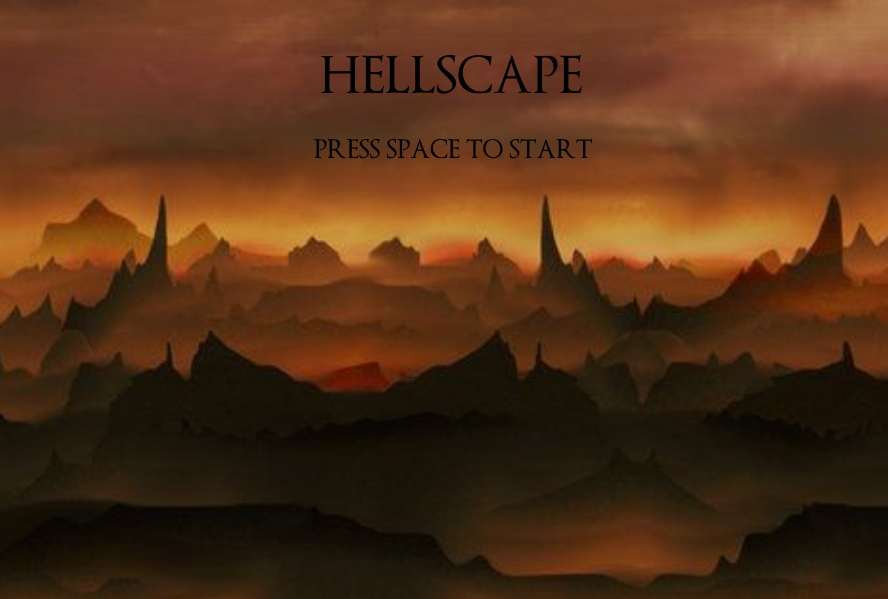
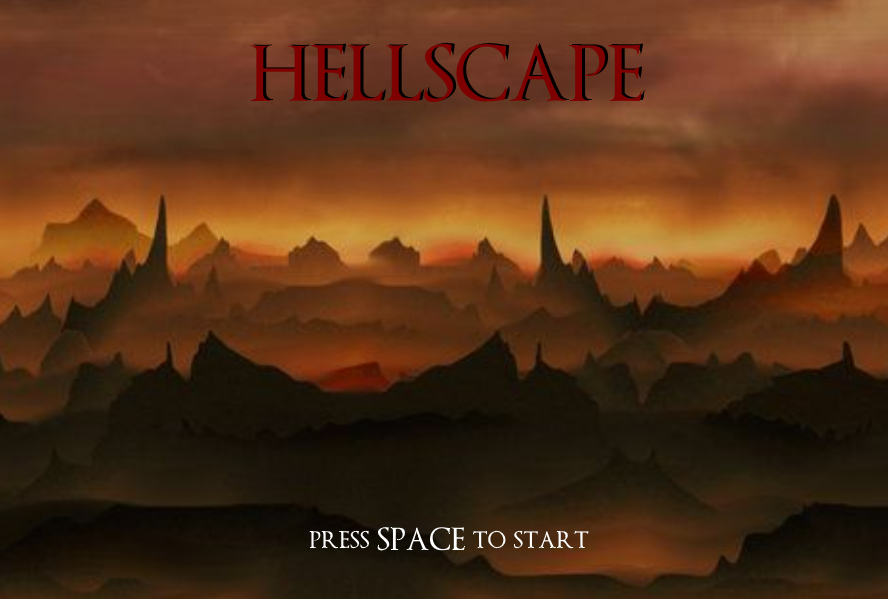
Refined backgrounds and buttons
and some minor changes to lvl 1

Changed region(s): [[0.2736, 0.0601, 0.7297, 0.1803], [0.3345, 0.8715, 0.6689, 0.9316], [0.3345, 0.2104, 0.6689, 0.2705]]

diff --git a/App/Source/Scene3D/Level1.cpp b/App/Source/Scene3D/Level1.cpp
@@ -258,7 +258,7 @@ bool CLevel1::Init(void)
 	// Add the cEnemy3D to the cSolidObjectManager
 	cSolidObjectManager->Add(cEnemy3D_2);
 
-	// Initialise a CStructure3D
+	/*// Initialise a CStructure3D
 	fCheckHeight = cTerrain->GetHeight(2.0f, -2.0f);
 	CStructure3D* cStructure3D = new CStructure3D(glm::vec3(2.0f, fCheckHeight, -2.0f));
 	cStructure3D->SetShader("Shader3D");
@@ -267,7 +267,7 @@ bool CLevel1::Init(void)
 	//cStructure3D->SetScale(glm::vec3(0.5f));
 
 	// Add the cStructure3D to the cSolidObjectManager
-	cSolidObjectManager->Add(cStructure3D);
+	cSolidObjectManager->Add(cStructure3D);*/
 
 	// Load the GUI Entities
 	// Store the cGUI_Scene3D singleton instance here

diff --git a/App/Source/GameStateManagement/MenuState.cpp b/App/Source/GameStateManagement/MenuState.cpp
@@ -87,10 +87,10 @@ bool CMenuState::Init(void)
 	startButtonData.fileName = "Image\\GUI\\PlayButton.png";
 	startButtonData.textureID = il->LoadTextureGetID(startButtonData.fileName.c_str(), false);
 
-	play3DButtonData.fileName = "Image\\GUI\\PlayButton_3D.png";
+	play3DButtonData.fileName = "Image\\GUI\\PlayButton_3D2.png";
 	play3DButtonData.textureID = il->LoadTextureGetID(play3DButtonData.fileName.c_str(), false);
 
-	exitButtonData.fileName = "Image\\GUI\\ExitButton.png";
+	exitButtonData.fileName = "Image\\GUI\\ExitButton2.png";
 	exitButtonData.textureID = il->LoadTextureGetID(exitButtonData.fileName.c_str(), false);
 
 	// Enable the cursor
